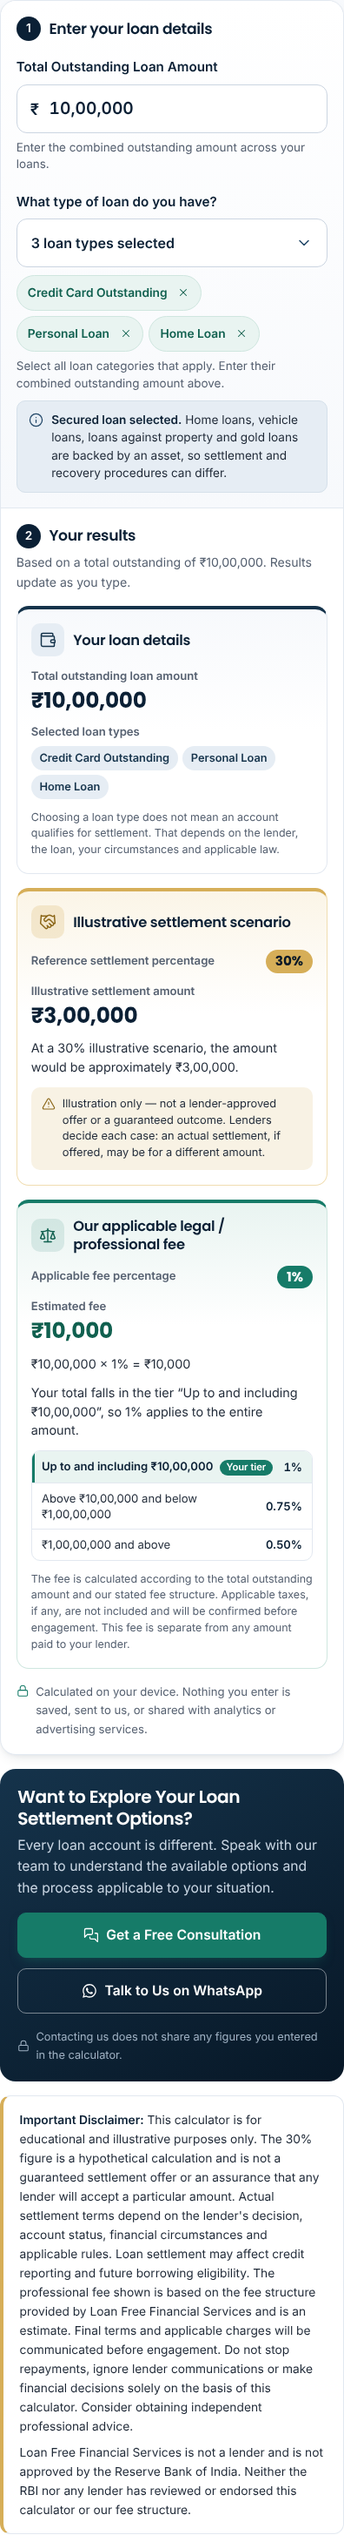
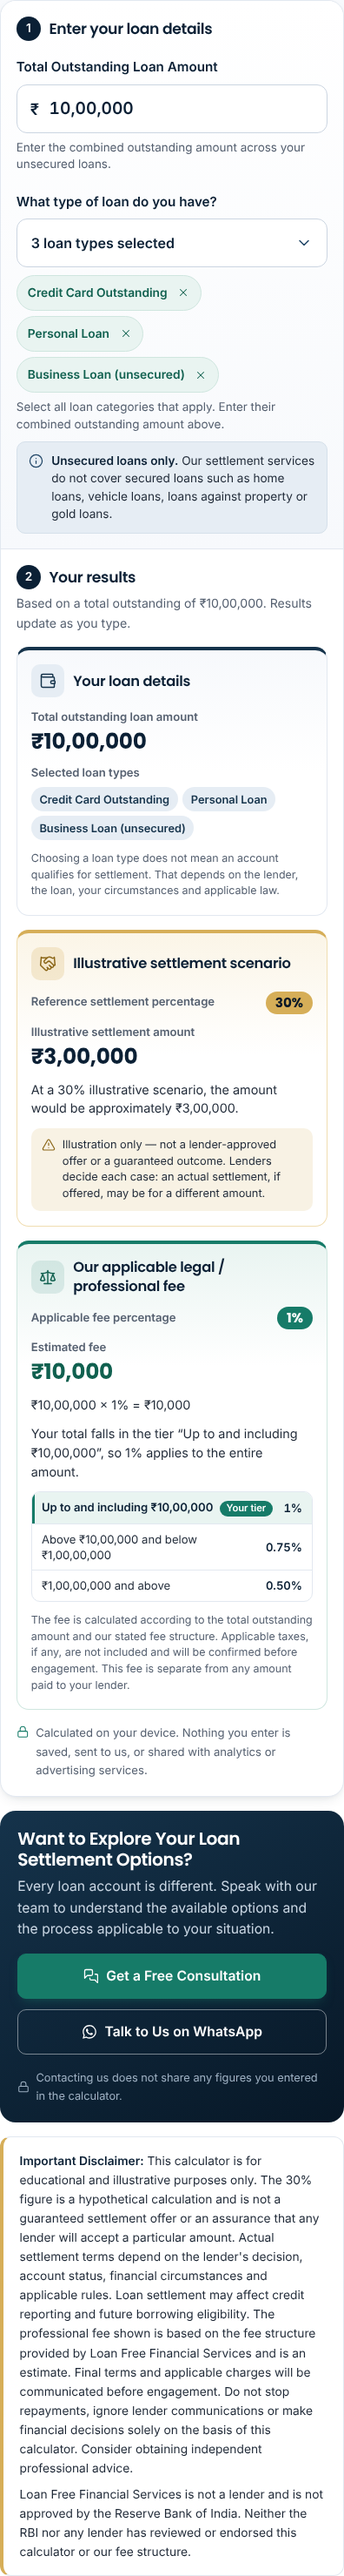
Show only unsecured loan types: settlement services cover unsecured loans only
The business settles unsecured loans only, so the calculator no longer offers
Vehicle Loan, Home Loan, Loan Against Property or Gold Loan, and the
secured-loan note is replaced by a permanent "Unsecured loans only" note.
Types that can be either secured or unsecured are labelled "(unsecured)":
Business Loan, Education Loan, Overdraft / Cash Credit and Other. The amount
helper now asks for the combined outstanding across unsecured loans.

The calculator page (hero, how it works, FAQ), the homepage calculator intro
and the Services, NBFC, OTS and MSME pages now state that settlement services
cover unsecured loans only. Educational guides and the legal-notice page are
unchanged. dateModified bumped on the pages whose service scope changed.

Tests: 63 unit, 227 browser (7 types offered, none secured, scope note shown),
check.mjs 0 errors/0 warnings, test-lead unchanged, 342-load sweep clean.
Report and legal log updated; screenshots refreshed.

Claude-Session: https://claude.ai/code/session_01TYKUSM9uP4gBDyZgF5nsKN

diff --git a/src/pages/settlement-calculator.html b/src/pages/settlement-calculator.html
@@ -14,7 +14,7 @@
     <div class="container">
         <span class="hero-kicker">Free tool</span>
         <h1>Loan Settlement &amp; Legal Fee Calculator</h1>
-        <p>Explore an illustrative loan settlement scenario and calculate the applicable professional fee based on your total outstanding loan.</p>
+        <p>Explore an illustrative loan settlement scenario and calculate the applicable professional fee based on your total outstanding unsecured loans.</p>
     </div>
 </header>
 <!-- lf:breadcrumbs -->
@@ -28,13 +28,15 @@
 <section class="content-section bg-white">
     <div class="container content-wrap long-form-section">
         <h2 id="how-it-works">How the calculator works</h2>
-        <p>You enter one figure — the combined outstanding amount across your loans — and choose the loan types that apply.
+        <p>You enter one figure — the combined outstanding amount across your unsecured loans — and choose the loan types that apply.
             The calculator then shows two separate figures:</p>
         <ul class="content-list">
             <li><strong>An illustrative settlement scenario:</strong> <!-- lf:calc-percent --> of your total outstanding amount.
                 This is a hypothetical reference point. It is not an offer, an estimate of what your lender will accept, or a guarantee.</li>
             <li><strong>Our applicable legal / professional fee:</strong> worked out from the fee structure below.</li>
         </ul>
+        <p>Our settlement services cover <strong>unsecured loans only</strong>, such as credit cards, personal loans, consumer durable loans
+            and unsecured business or education loans. Secured loans — home loans, vehicle loans, loans against property and gold loans — are not covered.</p>
         <p>The two figures are shown separately and are not added together. Our fee is separate from any amount paid to a
             lender: if a lender agrees to a settlement, the settlement amount is paid directly to that lender, not to us.</p>
 
@@ -100,8 +102,8 @@
             <div class="accordion-content"><p>The calculator does not add taxes or other charges. If GST or any other charge applies, it will be confirmed in writing, together with the final terms, before you engage us.</p></div></div>
         <div class="accordion-item"><button class="accordion-header">Is the fee paid to my lender? <i class="fas fa-chevron-down"></i></button>
             <div class="accordion-content"><p>No. Our professional fee is separate from any settlement amount. If a lender agrees to settle, the settlement amount is paid directly to the lender, not to us.</p></div></div>
-        <div class="accordion-item"><button class="accordion-header">Can secured loans such as home or vehicle loans be settled the same way? <i class="fas fa-chevron-down"></i></button>
-            <div class="accordion-content"><p>Not necessarily. Home loans, vehicle loans, loans against property and gold loans are backed by an asset, and the lender may be able to act against that asset under the loan agreement and applicable law. Settlement and recovery procedures can therefore differ. See our guide on <a href="/blog/sarfaesi-notice-13-2-borrower-options.html">SARFAESI notices</a>.</p></div></div>
+        <div class="accordion-item"><button class="accordion-header">Do you help settle secured loans such as home or vehicle loans? <i class="fas fa-chevron-down"></i></button>
+            <div class="accordion-content"><p>No. Our settlement services cover unsecured loans only. Home loans, vehicle loans, loans against property and gold loans are backed by an asset that the lender may be able to act against, so they follow different rules and are not included in this calculator. If you have received a notice on a secured loan, our guide on <a href="/blog/sarfaesi-notice-13-2-borrower-options.html">SARFAESI notices</a> explains the basics.</p></div></div>
         <div class="accordion-item"><button class="accordion-header">Is anything I enter saved or shared? <i class="fas fa-chevron-down"></i></button>
             <div class="accordion-content"><p>No. Everything is calculated in your browser. The amount and loan types you choose are not sent to us, not stored on your device by this page, not added to the web address, and not shared with analytics or advertising services. Refreshing the page clears them.</p></div></div>
         <div class="accordion-item"><button class="accordion-header">Should I stop paying EMIs to explore a settlement? <i class="fas fa-chevron-down"></i></button>

diff --git a/src/js/calculator.js b/src/js/calculator.js
@@ -51,21 +51,18 @@
         // Guard against typing errors only (₹1,000 crore). It is not a business limit.
         MAX_AMOUNT: 1e10,
 
-        // Loan categories offered in the multi-select. `secured` loans show a short note that
-        // settlement and recovery procedures can differ. Selecting a category never implies that an
-        // account qualifies for settlement.
+        // Loan categories offered in the multi-select. Settlement services cover UNSECURED loans only,
+        // so secured loans (home, vehicle, loan against property, gold) are deliberately not offered.
+        // Categories that can be either secured or unsecured are labelled "(unsecured)". Selecting a
+        // category never implies that an account qualifies for settlement.
         LOAN_TYPES: [
             { id: 'credit-card', label: 'Credit Card Outstanding' },
             { id: 'personal', label: 'Personal Loan' },
-            { id: 'business', label: 'Business Loan' },
-            { id: 'education', label: 'Education Loan' },
+            { id: 'business', label: 'Business Loan (unsecured)' },
+            { id: 'education', label: 'Education Loan (unsecured)' },
             { id: 'consumer-durable', label: 'Consumer Durable Loan' },
-            { id: 'vehicle', label: 'Vehicle Loan', secured: true },
-            { id: 'home', label: 'Home Loan', secured: true },
-            { id: 'property', label: 'Loan Against Property', secured: true },
-            { id: 'gold', label: 'Gold Loan', secured: true },
-            { id: 'overdraft', label: 'Overdraft / Cash Credit' },
-            { id: 'other', label: 'Other' }
+            { id: 'overdraft', label: 'Overdraft / Cash Credit (unsecured)' },
+            { id: 'other', label: 'Other unsecured loan' }
         ]
     };
 
@@ -145,9 +142,6 @@
     function loanTypeLabels(ids) {
         return normaliseLoanTypes(ids).map(function (id) { return typeById(id).label; });
     }
-    function hasSecuredLoan(ids) {
-        return normaliseLoanTypes(ids).some(function (id) { return !!typeById(id).secured; });
-    }
     function typeById(id) {
         for (var i = 0; i < CONFIG.LOAN_TYPES.length; i++) if (CONFIG.LOAN_TYPES[i].id === id) return CONFIG.LOAN_TYPES[i];
         return null;
@@ -158,7 +152,7 @@
     function calculate(amount, loanTypes) {
         var types = normaliseLoanTypes(loanTypes);
         var err = validateAmount(amount);
-        var out = { ok: !err, error: err, message: err ? MESSAGES[err] : '', loanTypes: types, secured: hasSecuredLoan(types), results: null };
+        var out = { ok: !err, error: err, message: err ? MESSAGES[err] : '', loanTypes: types, results: null };
         if (!err) out.results = { outstanding: amount, settlement: settlementScenario(amount), fee: legalFee(amount) };
         return out;
     }
@@ -219,7 +213,6 @@
         var boxes = $$('input[type=checkbox][data-loan-type]', ms);
         var chips = $('[data-r="chips"]');
         var chipTpl = $('template[data-chip-template]');
-        var secured = $('[data-r="secured"]');
         var tracked = false;
         var liveTimer;
         var showRequired = false;
@@ -328,7 +321,6 @@
                 });
                 chips.hidden = !types.length;
             }
-            if (secured) secured.hidden = !hasSecuredLoan(types);
             // Results card 1: the selected types (no remove buttons).
             var list = $('[data-r="types"]', out);
             if (list) {
@@ -430,7 +422,6 @@
         calculate: calculate,
         normaliseLoanTypes: normaliseLoanTypes,
         loanTypeLabels: loanTypeLabels,
-        hasSecuredLoan: hasSecuredLoan,
         formatINR: formatINR,
         formatPercent: formatPercent,
         groupIndian: groupIndian,

diff --git a/src/pages/nbfc-loan-settlement.html b/src/pages/nbfc-loan-settlement.html
@@ -12,7 +12,7 @@
       "NBFC Loan Settlement"
     ]
   ],
-  "dateModified": "2026-11-01",
+  "dateModified": "2026-11-03",
   "service": {
     "name": "NBFC Loan Settlement",
     "serviceType": "Debt settlement consultancy"
@@ -52,7 +52,7 @@
 
         <h2>What makes NBFC loans different</h2>
         <p>A non-banking financial company lends money but does not hold a banking licence. Many personal loans, consumer
-            durable loans, two-wheeler loans and app-based loans in India are actually given by NBFCs, sometimes through a
+            durable loans and app-based loans in India are actually given by NBFCs, sometimes through a
             lending app or partner platform. The app is not always the lender — check your loan agreement or key fact
             statement to see which regulated entity actually lent you the money. That is the company you settle with and
             complain to.</p>
@@ -89,7 +89,7 @@
         <h2>Eligibility and limitations</h2>
         <ul class="content-list">
             <li>Settlement is the NBFC's decision. It usually considers it only when the account is overdue and the hardship is genuine.</li>
-            <li>Secured loans, such as vehicle or gold loans, follow different rules because the lender can enforce its security.</li>
+            <li>We help with unsecured NBFC loans only. Secured loans, such as vehicle or gold loans, are not covered: they follow different rules because the lender can enforce its security.</li>
             <li>The NBFC that settles with you must wait at least 12 months (for non-farm loans) before lending to you again.</li>
             <li>If the "lender" is an app that is not linked to any RBI-regulated entity, it is not a legitimate lender — see <a href="/digital-lending-app-harassment.html">loan app harassment support</a>.</li>
         </ul>

diff --git a/src/pages/index.html b/src/pages/index.html
@@ -3,7 +3,7 @@
   "title": "Loan Settlement & Debt Resolution Help in India | Loan Free",
   "description": "Confidential help with loan and credit card settlement, recovery-agent problems and legal notices. Delhi office, support across India. No false promises.",
   "type": "home",
-  "dateModified": "2026-11-01",
+  "dateModified": "2026-11-03",
   "preloadPhoto": { "name": "hero-consultation", "sizes": "(max-width: 1023px) 92vw, 560px" },
   "scripts": ["calculator"]
 }
@@ -156,7 +156,7 @@
             <div class="section-head">
                 <span class="eyebrow">Free tool</span>
                 <h2 id="calc-title">Loan Settlement &amp; Legal Fee Calculator</h2>
-                <p>Explore an illustrative loan settlement scenario and calculate the applicable professional fee based on your total outstanding loan.</p>
+                <p>Explore an illustrative loan settlement scenario and calculate the applicable professional fee based on your total outstanding unsecured loans.</p>
                 <ul class="home-calc-points">
                     <li><i class="fas fa-check"></i> Two quick steps: your total outstanding and loan type</li>
                     <li><i class="fas fa-lock"></i> Calculated on your device; nothing is saved or sent</li>

diff --git a/src/pages/business-loan-restructuring.html b/src/pages/business-loan-restructuring.html
@@ -12,7 +12,7 @@
       "MSME Loan Restructuring"
     ]
   ],
-  "dateModified": "2026-11-01",
+  "dateModified": "2026-11-03",
   "service": {
     "name": "Business and MSME Loan Restructuring Support",
     "serviceType": "Debt restructuring consultancy"
@@ -77,7 +77,7 @@
             <li>Restructuring is at the lender's discretion and depends on its policy and your business's viability.</li>
             <li>A restructured account may be reported as such and can affect future borrowing.</li>
             <li>Personal guarantees and collateral remain relevant. A settlement with the borrower does not automatically release a guarantor unless the letter says so.</li>
-            <li>Secured loans can be enforced through the SARFAESI Act, 2002, which has its own notices and timelines. Read <a href="/legal-notice-reply.html">legal notice support</a>.</li>
+            <li>Our settlement support covers unsecured business loans only. Secured loans can be enforced through the SARFAESI Act, 2002, which has its own notices and timelines. Read <a href="/legal-notice-reply.html">legal notice support</a>.</li>
         </ul>
 
         <h2>How we help</h2>

diff --git a/src/pages/services.html b/src/pages/services.html
@@ -4,7 +4,7 @@
   "description": "Compare our debt-resolution services: personal loan, credit card and NBFC settlement, restructuring, recovery and loan-app harassment support.",
   "type": "collection",
   "breadcrumbs": [["Services"]],
-  "dateModified": "2026-11-01"
+  "dateModified": "2026-11-03"
 }
 -->
 <header class="hero-page">
@@ -64,7 +64,8 @@
             <h2>When settlement may not be right</h2>
             <p>Settlement is not always the best option. If you can afford to repay with a longer tenure or a lower EMI,
                 <a href="/loan-settlement-vs-restructuring.html">restructuring</a> usually does less damage to your credit report.
-                Secured loans such as home or vehicle loans follow different rules because the lender can enforce its security.
+                Our settlement services cover unsecured loans only. Secured loans such as home, vehicle, property or gold loans are not covered:
+                they follow different rules because the lender can enforce its security.
                 We will tell you honestly if another route suits you better.</p>
 
             <div class="risk-box" id="fees">

diff --git a/src/pages/loan-ots-one-time-settlement.html b/src/pages/loan-ots-one-time-settlement.html
@@ -12,7 +12,7 @@
       "One-Time Settlement (OTS)"
     ]
   ],
-  "dateModified": "2026-11-01",
+  "dateModified": "2026-11-03",
   "service": {
     "name": "One-Time Settlement (OTS) Support",
     "serviceType": "Debt settlement consultancy"
@@ -82,7 +82,7 @@
         <h2>Eligibility and limitations</h2>
         <ul class="content-list">
             <li>There is no right to OTS. The lender decides under its policy, considering the amount, your history, any security and your circumstances.</li>
-            <li>Secured loans are different: the lender can enforce its security, which affects what it will accept.</li>
+            <li>We support settlement for unsecured loans only. Secured loans are different: the lender can enforce its security, which affects what it will accept.</li>
             <li>If you can pay with a longer tenure or lower EMI, <a href="/loan-settlement-vs-restructuring.html">restructuring</a> usually protects your credit report better.</li>
             <li>No one can guarantee a waiver percentage.</li>
         </ul>

diff --git a/docs/SIMPLE_CALCULATOR_IMPLEMENTATION_REPORT.md b/docs/SIMPLE_CALCULATOR_IMPLEMENTATION_REPORT.md
@@ -2,7 +2,17 @@
 
 Date: 3 Nov 2026 · Branch: `claude/serene-newton-af01oj` (from `main` at `753e402`) · URL: `/settlement-calculator.html` (unchanged)
 
-**Status: built and tested on the branch. Not deployed.** No production deployment, merge or Vercel setting change has been made. Business and legal decisions listed in §9 should be settled before launch.
+**Status: merged to `main` on 3 Nov 2026 with the owner's approval** (brandzoomediaagency-coder/Loan-Free-Financial-Services-#4). Vercel builds production from `main`. The live site could not be checked from the build environment, so please confirm it in Vercel and in a browser. The business and legal decisions in §9 are still open.
+
+**Update, 3 Nov 2026 — unsecured loans only.** The business provides settlement services for unsecured loans only. The changes:
+- The loan-type list now offers only unsecured types: Credit Card Outstanding, Personal Loan, Business Loan (unsecured), Education Loan (unsecured), Consumer Durable Loan, Overdraft / Cash Credit (unsecured) and Other unsecured loan.
+- Vehicle Loan, Home Loan, Loan Against Property and Gold Loan were removed, along with the secured-loan note.
+- A permanent note now says "Unsecured loans only. Our settlement services do not cover secured loans such as home loans, vehicle loans, loans against property or gold loans."
+- The amount helper now asks for the combined outstanding across *unsecured* loans.
+- The calculator page, the homepage section and the Services, NBFC, OTS and MSME pages now say plainly that settlement services cover unsecured loans only.
+- Educational guides and the legal-notice page, which explain SARFAESI notices on secured loans, were left as information.
+
+Tests after the update: 63 unit, 227 browser (7 loan types, no secured types, scope note shown), `check.mjs` 0/0, lead test unchanged, site sweep 342 loads clean.
 
 ---
 
@@ -199,7 +209,7 @@ Please decide these before production. Nothing below has been changed on other p
 5. **Fee wording elsewhere on the site** — not changed, to preserve approved text. These pages still say fees "depend on the work involved" or should be requested in writing, which now sits beside a published schedule: `faq.html#fees`, `about.html` (Fees), `services.html#fees`, `terms.html` (Fees), `process.html`, `personal-loan-settlement.html` FAQ, `loan-settlement-delhi.html` FAQ, homepage "Clarity on fees before you decide". Decide whether to align them, for example by pointing to the calculator.
 6. **Banned-claims rule `fixed fees` → "no fees published"** in `tools/check.mjs`. Its reason is now out of date. It is still harmless and was left unchanged.
 7. **Loan types optional.** They are not required to see results and do not change the figures. Confirm, or make them required.
-8. **Secured-loan list.** The note covers home, vehicle, property and gold loans. Overdraft / cash credit and some education loans can also be secured. Confirm the list.
+8. **Secured loans** — *resolved 3 Nov 2026:* only unsecured loan types are offered (see the update at the top). Business, education and overdraft / cash credit, which can be either secured or unsecured, are labelled "(unsecured)". Confirm you want to keep them; cash credit in particular is usually secured. Also decide whether the legal-notice reply service still helps with SARFAESI notices, which only concern secured loans.
 9. **Rounding and limits.** Results are rounded to the nearest rupee. Inputs above ₹1,000 crore are treated as typing errors. Confirm both.
 10. **Navigation labels** still read "Settlement scenario calculator" / "Settlement Calculator". They were kept unchanged as instructed and are still accurate; rename them if you prefer.
 11. **No Hindi version** of the calculator exists (same as before).

diff --git a/docs/LEGAL_REVIEW_LOG.md b/docs/LEGAL_REVIEW_LOG.md
@@ -61,7 +61,7 @@ Status key: **Verified** = checked against the official text saved in `docs/rese
 |---|---|---|---|
 | Service pages (12) | | | |
 | Settlement scenario calculator page (new in Phase 3) | | | Uses only the RBI framework facts listed above (board-approved policy, >3 months = restructuring, 12-month cooling period) and "Settled" reporting |
-| Loan Settlement & Legal Fee Calculator (replaced the above, 3 Nov 2026) | | | **Needs review before production.** Adds (1) an illustrative 30% settlement scenario supplied by the business — this re-introduces a percentage after "fixed waiver percentages" were removed above; it is labelled as hypothetical, not an offer or guarantee, wherever it appears; (2) a published fee schedule (1% / 0.75% / 0.50% flat on the whole amount) under the heading "legal / professional fee", while the site states it is not a law firm and other pages say fees are given in writing on request; (3) a secured-loan note and a SARFAESI guide link; (4) the business-supplied disclaimer text. See `docs/SIMPLE_CALCULATOR_IMPLEMENTATION_REPORT.md` §9 |
+| Loan Settlement & Legal Fee Calculator (replaced the above, 3 Nov 2026) | | | **Needs review before production.** Adds (1) an illustrative 30% settlement scenario supplied by the business — this re-introduces a percentage after "fixed waiver percentages" were removed above; it is labelled as hypothetical, not an offer or guarantee, wherever it appears; (2) a published fee schedule (1% / 0.75% / 0.50% flat on the whole amount) under the heading "legal / professional fee", while the site states it is not a law firm and other pages say fees are given in writing on request; (3) a statement that settlement services cover unsecured loans only (calculator, Services, NBFC, OTS and MSME pages; added 3 Nov 2026), with a SARFAESI guide link; (4) the business-supplied disclaimer text. See `docs/SIMPLE_CALCULATOR_IMPLEMENTATION_REPORT.md` §9 |
 | FAQ, Process, About, Services | | | |
 | RBI 2027 pillar (draft) | | | |
 | Hindi section (drafts) | | | |
